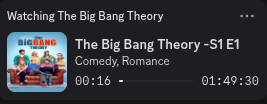
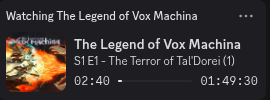
Changed some presence graphics

diff --git a/main.py b/main.py
@@ -295,7 +295,8 @@ def main():
                     "cmd": "SET_ACTIVITY",
                     "args": {
                         "activity": {
-                            "details": f"{info[0]} ({', '.join(info[9])})",
+                            "details": f"{info[0]}",
+                            "state": f"{', '.join(info[9])}",
                             "name": info[0],
                             "timestamps": {
                                 "start": info[2],
@@ -314,8 +315,8 @@ def main():
                     "cmd": "SET_ACTIVITY",
                     "args": {
                         "activity": {
-                            "details": f"{info[0]} ({', '.join(info[9])})",
-                            "state": "paused ⏸ ",
+                            "details": f"{info[0]}",
+                            "state": f"{', '.join(info[9])} ⏸ ",
                             "name": info[0],
                             "assets": {
                                 "large_image": f"{get_song_poster(info[0],info[9])}",
@@ -336,8 +337,8 @@ def main():
                     "cmd": "SET_ACTIVITY",
                     "args": {
                         "activity": {
-                            "details": f"{info[4]} -{info[5]}",
-                            "state": f"{', '.join(info[7])}",
+                            "details": f"{info[4]}",
+                            "state": f"{info[5]} - {info[0]}",
                             "name": info[4],
                             "timestamps": {
                                 "start": info[2],
@@ -356,8 +357,8 @@ def main():
                     "cmd": "SET_ACTIVITY",
                     "args": {
                         "activity": {
-                            "details": f"{info[4]} -{info[5]}",
-                            "state": f"{', '.join(info[7])} ⏸ ",
+                            "details": f"{info[4]}",
+                            "state": f"{info[5]} - {info[0]}⏸ ",
                             "name": info[4],
                             "assets": {
                                 "large_image": f"{get_show_poster(info[4],info[6])}",
